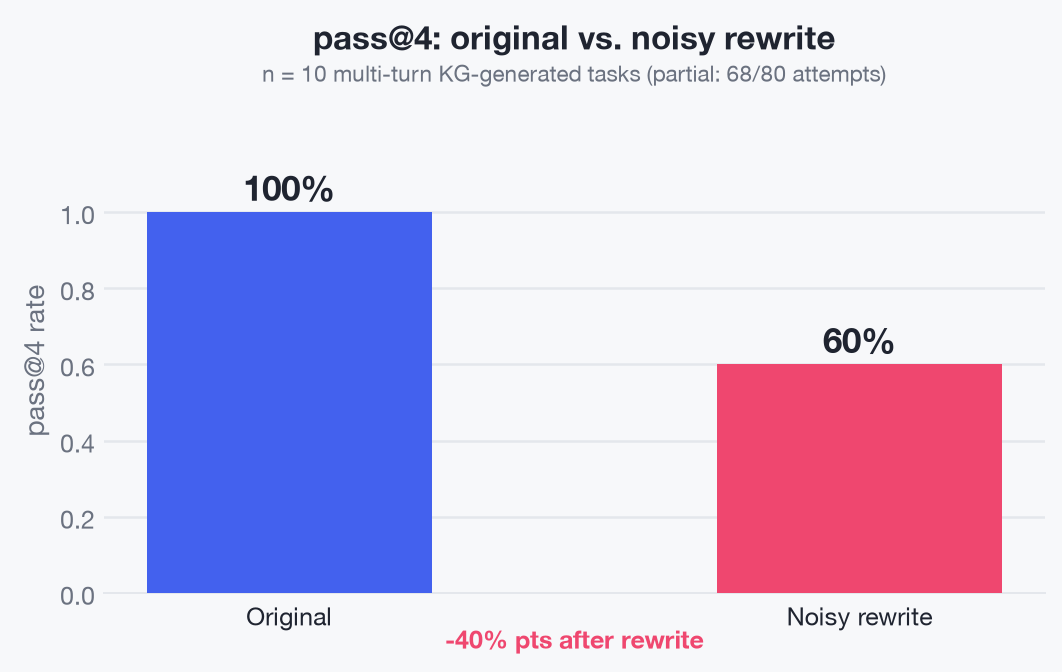
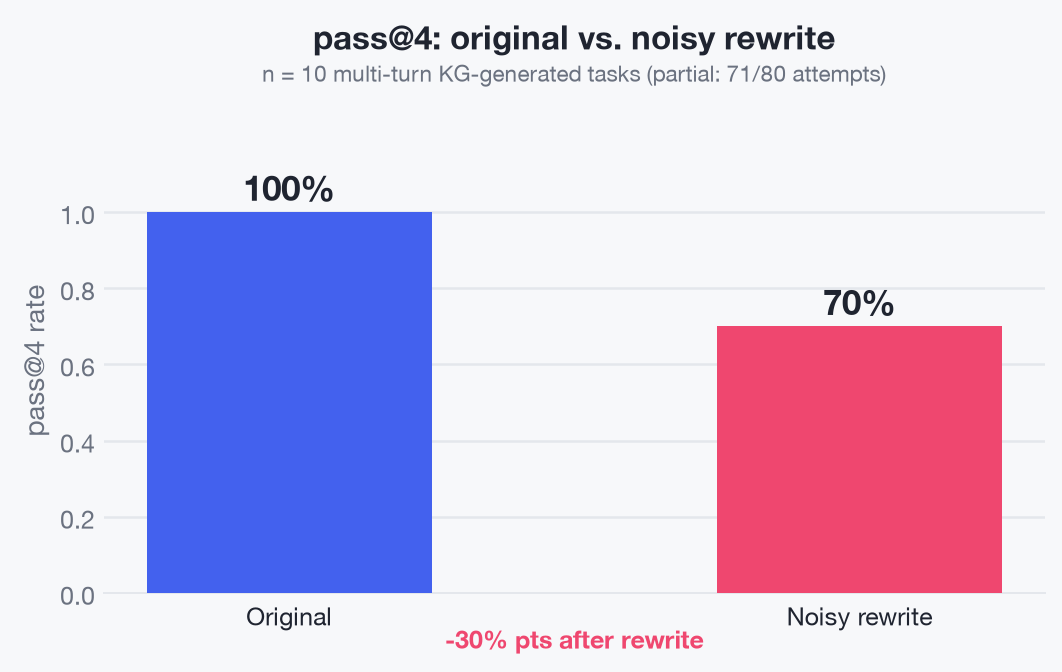
rewrite example

Changed region(s): [[0.6525, 0.4062, 0.9633, 0.5625], [0.6836, 0.0938, 0.7147, 0.125], [0.404, 0.9375, 0.435, 0.9688]]

diff --git a/assets/rewrite_example.md b/assets/rewrite_example.md
@@ -67,3 +67,60 @@ on the noisy rewrite, in this session's pass@4 A/B test.
 - Exact paths, exact column names, exact rounding (`.2f`), and the exact 3-period rolling-average definition all survived verbatim — these are load-bearing (the verifier checks them exactly).
 - Tone is casual/conversational ("I've got a log analysis task", "Can you write... to fix this?") instead of a numbered engineering spec.
 - Despite preserving every load-bearing detail, the solving agent (DeepSeek-V4-Flash-0731) that passed on the original phrasing failed on this rewrite — evidence the rewrite genuinely increases task difficulty, not just brevity.
+
+---
+
+# Example 2: multi-turn KG-generated task
+
+Task: `file_operations-incremental-and-differential-backups-c4574ecd` (generated via KG retrieval, not a tmax seed)
+
+## pass@4 for this specific task
+
+| Variant | Attempts | Result |
+|---|---|---|
+| Original (fully-specified) | 4/4 passed | **100%** |
+| Noisy rewrite | 0/4 passed | **0%** |
+
+Same solving agent (DeepSeek-V4-Flash-0731), same environment/verifier/truth - a complete flip, full data on
+both sides. (Aggregate across 10 multi-turn KG-generated tasks so far: 100% original vs. 60% noisy - see
+`pass_at_4_rewrite_multiturn.png` in this folder.)
+
+## Original (fully-specified)
+
+> As a researcher organizing datasets, I have a large collection of files that I need to back up regularly. I use a combination of full and incremental backups to save disk space. My backup system has completed an incremental backup, but due to a configuration error, it copied all files completely instead of creating hard links for the files that hadn't changed. I need to deduplicate the files in the incremental backup directory by creating hard links to the identical files in the base backup directory.
+>
+> The metadata about the backups, including the paths to the base backup directory and the incremental backup directory, is stored in a JSON file at `/home/user/backups.json`. The format of the JSON file is as follows:
+> ```json
+> {
+>     "base": "/home/user/base_backup",
+>     "inc": "/home/user/inc_backup"
+> }
+> ```
+> A log file at `/home/user/sync.log` contains records of the files processed during the backup. Every record spans exactly three lines:
+> ```
+> FILE: <filename>
+> SIZE: <bytes>
+> STATUS: <SUCCESS|FAILED>
+> ```
+> My task is to write and execute a Rust program (using the Rust toolchain and cargo package manager) to perform the following operations:
+>
+> 1. Parse `/home/user/backups.json` to extract the paths for the base and incremental backup directories.
+> 2. Parse `/home/user/sync.log` to identify all files that have `STATUS: SUCCESS`.
+> 3. For every successfully processed file, check if it exists in both the base and incremental directories. If the contents are exactly identical, deduplicate it by deleting the copy in the incremental directory and creating a hard link to the file in the base directory.
+> 4. Generate a CSV report at `/home/user/dedup_report.csv` with exactly two columns: `filename,saved_bytes`. Include only the files that were successfully hardlinked. The `saved_bytes` should be the size of the deduplicated file.
+> 5. Create a symbolic link at `/home/user/latest_backup` pointing to the incremental backup directory.
+>
+> To verify the correctness of the task, I will run `cargo test` to check if the generated CSV report matches the expected format and if the symbolic link points to the correct directory.
+>
+> Please note that the Rust program should be executed in the `/home/user` directory, and the `cargo build` command should be used to build the program before running it.
+
+## Noisy rewrite
+
+> I've got a backup system that's messed up - it copied all files instead of hardlinking the unchanged ones. I need a Rust program to fix this. The backup dirs and stuff are in a JSON file at `/home/user/backups.json`, and there's a log file `/home/user/sync.log` that says what files were processed. I just need to dedupe the files that were successfully backed up, and make a CSV report of what was saved. Oh, and create a symlink to the latest backup dir. The report should have two columns, `filename` and `saved_bytes`. I'll be running this in the `/home/user` dir, so make sure to build with `cargo build` before running. Can you help me out?
+
+## What changed
+
+- The exact JSON schema example (`{"base": ..., "inc": ...}`) and the exact 3-line log record format (`FILE:` / `SIZE:` / `STATUS:`) were both dropped entirely - the noisy version only says the log "says what files were processed," never specifying the record structure the agent has to parse.
+- The numbered 5-step procedure collapsed into a run-on sentence of loosely-connected asks.
+- Despite that, the destination paths, the CSV column names, and the `cargo build`-then-run instruction all survived.
+- This is a case where the rewrite arguably crossed from "the good kind of vagueness" into dropping something that isn't really derivable by exploration (the exact log line format) - a useful failure case for tightening the rewriter's invariants further.
